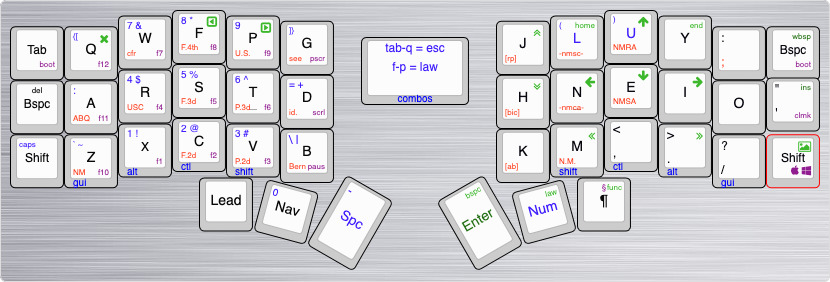
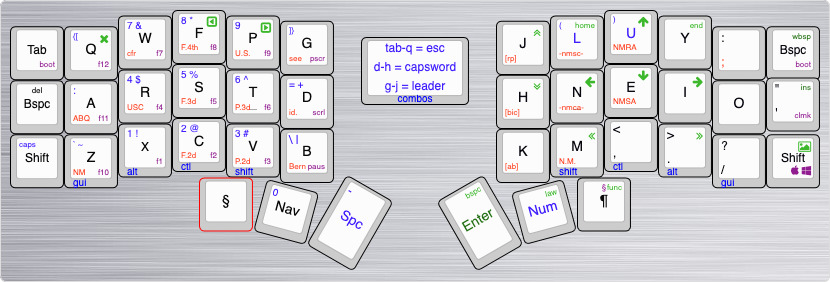
playing with sec and para

diff --git a/keymap.c b/keymap.c
@@ -132,7 +132,7 @@ const uint16_t PROGMEM keymaps[][MATRIX_ROWS][MATRIX_COLS] = {
   //|--------+--------+--------+--------+--------+--------|                    |--------+--------+--------+--------+--------+--------|
        DZ_OSS,    DZ_Z,    DZ_X,    DZ_C,    DZ_V,    KC_B,                         KC_K,    DZ_M, DZ_COMM,  DZ_DOT, DZ_SLSH, DZ_OSSR,
   //|--------+--------+--------+--------+--------+--------+--------|  |--------+--------+--------+--------+--------+--------+--------|
-                                          QK_LEAD,   DZNAV,  KC_SPC,     KC_ENT,   DZNUM, PARASEC
+                                          DZ_SEC,   DZNAV,  KC_SPC,     KC_ENT,   DZNUM, PARASEC
                                       //`--------------------------'  `--------------------------'
 
   ),
